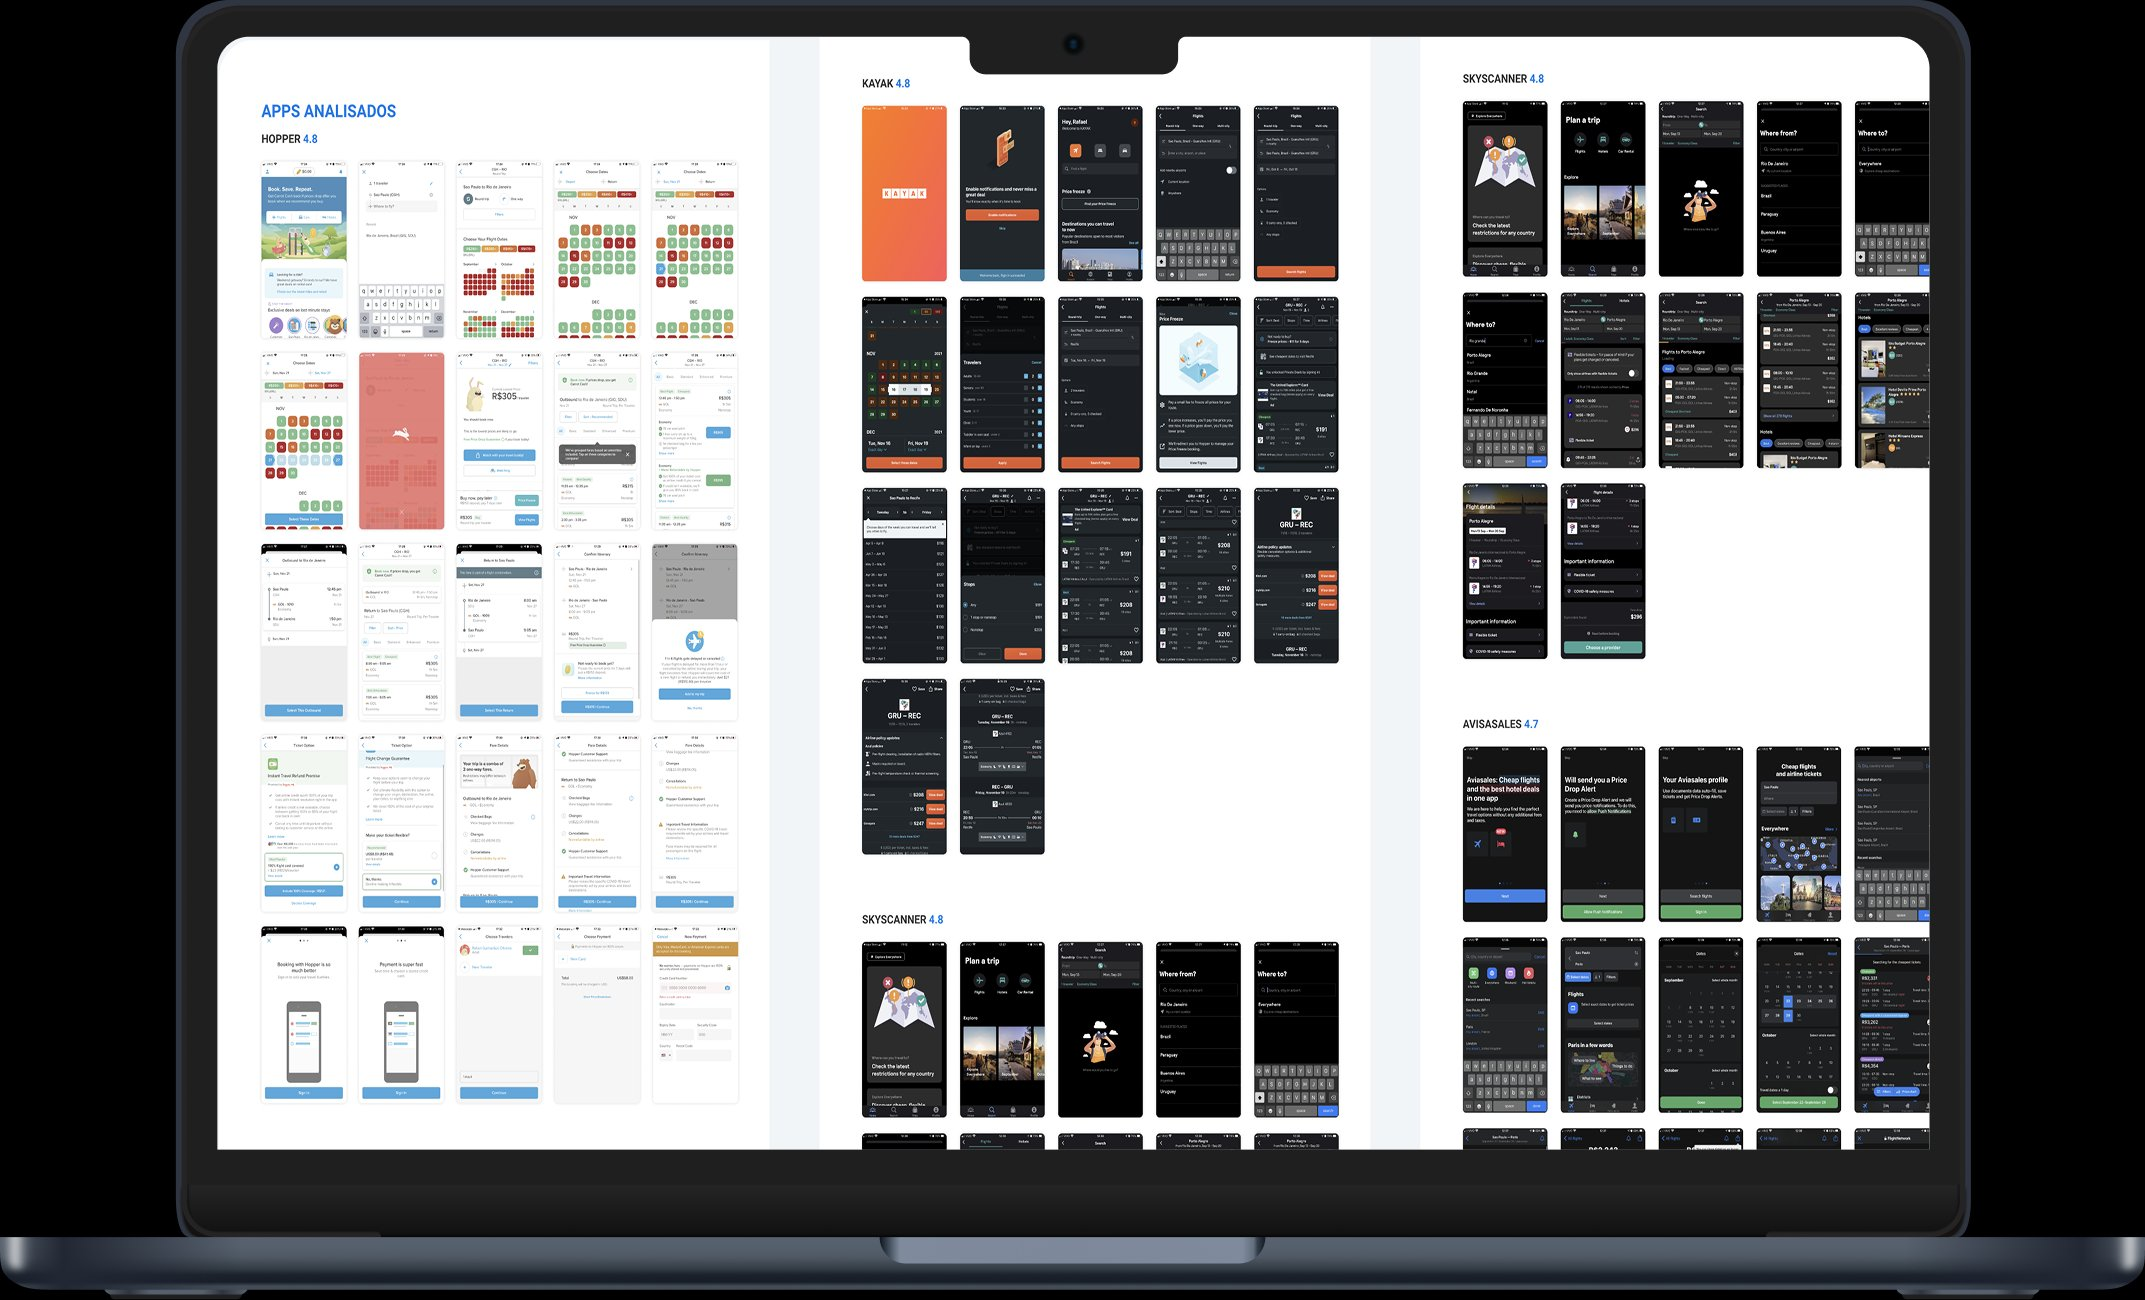
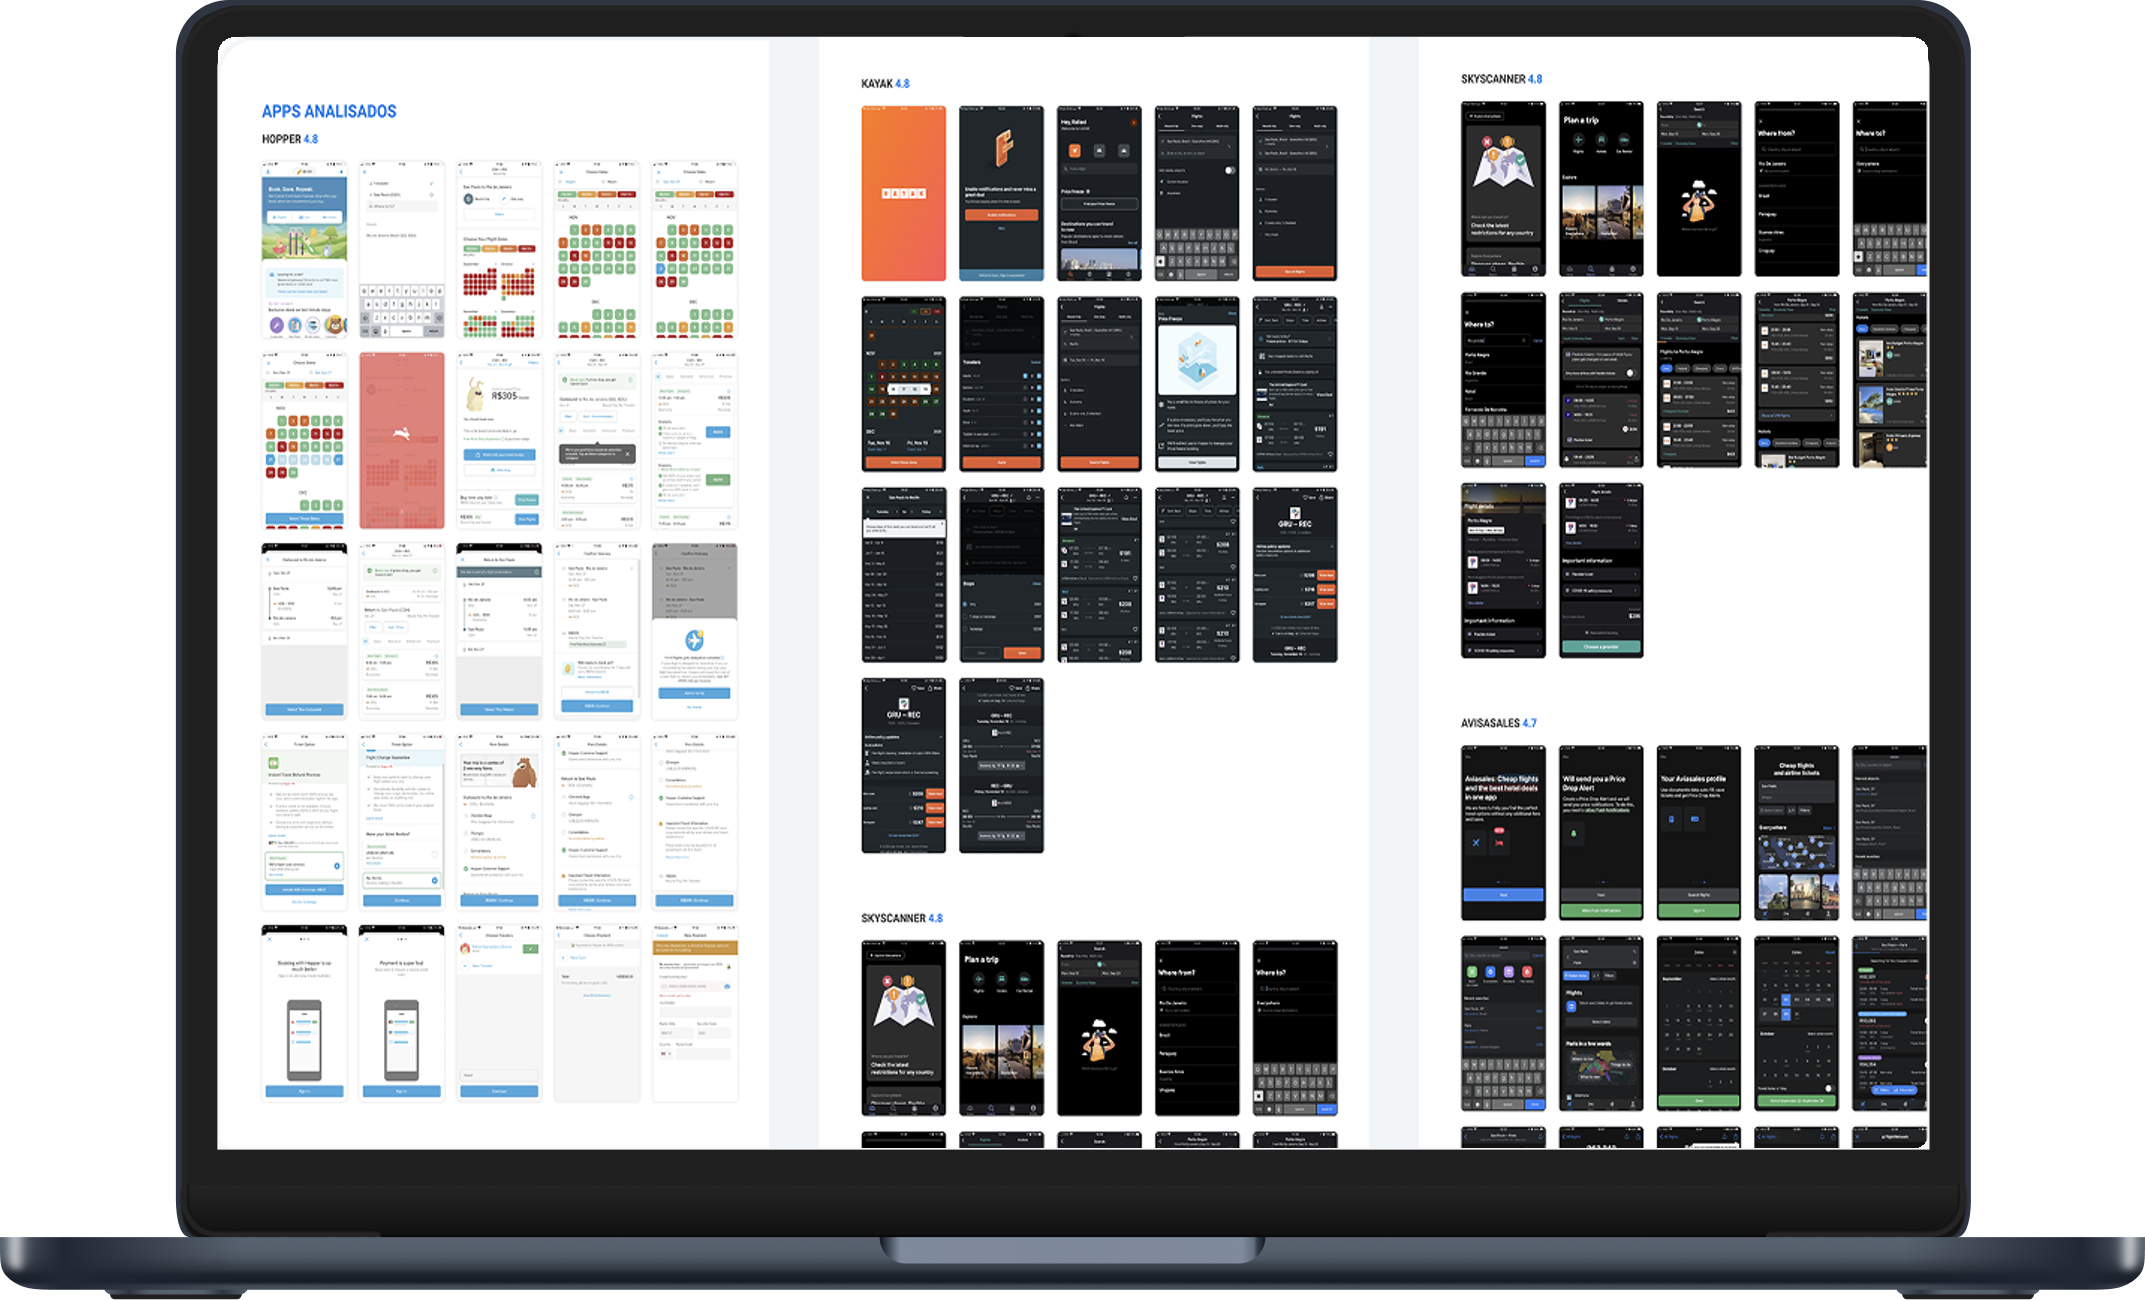
CVC process section: huge MacBook mockups with scroll-zoom (Apple-style)
Replace the flat process artifacts with oversized MacBook mockups that bleed
off the viewport edges and zoom as you scroll through a pinned stage
(MacBookReveal). The benchmark board and navigation flow become the two
hero "computers"; the supporting craft carousel now uses framed MacBooks too,
unifying the desktop = "the thinking" device language.

diff --git a/app/components/MacBookReveal.tsx b/app/components/MacBookReveal.tsx
@@ -1,0 +1,149 @@
+"use client";
+import Image from "next/image";
+import { useEffect, useRef, useState } from "react";
+
+/* A huge "process artifact" shown inside a real MacBook mockup (PNG already
+   includes the device frame). The laptop is oversized so it bleeds past the
+   viewport edges, and it ZOOMS as you scroll through a pinned stage — the
+   Apple product-shot move. Caption (eyebrow/title/body/metric) sits above,
+   revealing as you enter. On mobile it degrades to a clean stacked image. */
+
+export default function MacBookReveal({
+  src,
+  eyebrow,
+  title,
+  body,
+  metric,
+  isMobile = false,
+  heightVh = 165,
+}: {
+  src: string;
+  eyebrow?: string;
+  title: string;
+  body: string;
+  metric?: { n: string; l: string };
+  isMobile?: boolean;
+  heightVh?: number;
+}) {
+  const wrapRef = useRef<HTMLDivElement>(null);
+  const capRef = useRef<HTMLDivElement>(null);
+  const [p, setP] = useState(0); // 0..1 progress through the pinned stage
+  const [capShown, setCapShown] = useState(false);
+
+  useEffect(() => {
+    const el = capRef.current;
+    if (!el) return;
+    const obs = new IntersectionObserver(
+      ([e]) => e.isIntersecting && (setCapShown(true), obs.unobserve(el)),
+      { threshold: 0.4 }
+    );
+    obs.observe(el);
+    return () => obs.disconnect();
+  }, []);
+
+  useEffect(() => {
+    if (isMobile) return;
+    const onScroll = () => {
+      const el = wrapRef.current;
+      if (!el) return;
+      const r = el.getBoundingClientRect();
+      const vh = window.innerHeight;
+      const total = el.offsetHeight - vh;
+      const scrolled = Math.min(Math.max(-r.top, 0), Math.max(total, 1));
+      setP(total > 0 ? scrolled / total : 0);
+    };
+    onScroll();
+    window.addEventListener("scroll", onScroll, { passive: true });
+    window.addEventListener("resize", onScroll);
+    return () => {
+      window.removeEventListener("scroll", onScroll);
+      window.removeEventListener("resize", onScroll);
+    };
+  }, [isMobile]);
+
+  const caption = (
+    <div
+      ref={capRef}
+      style={{
+        maxWidth: 760,
+        opacity: capShown ? 1 : 0,
+        transform: capShown ? "translateY(0)" : "translateY(18px)",
+        transition: "opacity .9s ease, transform .9s cubic-bezier(.16,1,.3,1)",
+      }}
+    >
+      {eyebrow && (
+        <p style={{ fontSize: ".65rem", fontWeight: 700, letterSpacing: ".18em", textTransform: "uppercase", color: "#0071e3", marginBottom: "1rem" }}>
+          {eyebrow}
+        </p>
+      )}
+      <h3 style={{ fontSize: "clamp(1.5rem,2.6vw,2.3rem)", fontWeight: 700, color: "#fff", letterSpacing: "-.02em", lineHeight: 1.08, marginBottom: "1.1rem" }}>
+        {title}
+      </h3>
+      <p style={{ fontSize: "1rem", color: "rgba(255,255,255,.55)", lineHeight: 1.75 }}>{body}</p>
+      {metric && (
+        <div style={{ marginTop: "1.75rem", display: "inline-flex", alignItems: "baseline", gap: ".6rem", padding: ".7rem 1.1rem", borderRadius: 12, border: "1px solid rgba(0,113,227,.3)", background: "rgba(0,113,227,.06)" }}>
+          <span style={{ fontSize: "1.6rem", fontWeight: 700, color: "#0071e3", letterSpacing: "-.03em", lineHeight: 1 }}>{metric.n}</span>
+          <span style={{ fontSize: ".75rem", color: "rgba(255,255,255,.5)", letterSpacing: ".04em" }}>{metric.l}</span>
+        </div>
+      )}
+    </div>
+  );
+
+  /* ── Mobile: caption + static laptop ── */
+  if (isMobile) {
+    return (
+      <div style={{ display: "flex", flexDirection: "column", gap: "2rem" }}>
+        {caption}
+        <div style={{ width: "112%", marginLeft: "-6%" }}>
+          <Image src={src} alt={title} width={2145} height={1300} unoptimized sizes="112vw" style={{ width: "100%", height: "auto", display: "block" }} />
+        </div>
+      </div>
+    );
+  }
+
+  /* ── Desktop: caption, then a pinned laptop that zooms on scroll ── */
+  const scale = 1.0 + p * 0.16; // zoom in 1.00 → 1.16
+  const ty = (0.5 - p) * 46; // gentle rise as it zooms
+
+  return (
+    <div>
+      <div style={{ marginBottom: "1rem" }}>{caption}</div>
+
+      {/* full-bleed pinned zoom stage */}
+      <div
+        ref={wrapRef}
+        style={{
+          position: "relative",
+          height: `${heightVh}vh`,
+          width: "100vw",
+          marginLeft: "calc(50% - 50vw)",
+        }}
+      >
+        <div
+          style={{
+            position: "sticky",
+            top: 0,
+            height: "100vh",
+            overflow: "hidden",
+            display: "flex",
+            alignItems: "center",
+            justifyContent: "center",
+          }}
+        >
+          <div
+            style={{
+              flexShrink: 0,
+              width: "min(118vw, 1700px)",
+              transform: `translateY(${ty}px) scale(${scale})`,
+              transition: "transform .12s linear",
+              willChange: "transform",
+              filter: "drop-shadow(0 50px 90px rgba(0,0,0,.6))",
+            }}
+          >
+            <Image src={src} alt={title} width={2145} height={1300} unoptimized sizes="118vw" style={{ width: "100%", height: "auto", display: "block" }} />
+          </div>
+        </div>
+      </div>
+    </div>
+  );
+}

diff --git a/app/work/cvc/page.tsx b/app/work/cvc/page.tsx
@@ -8,7 +8,7 @@ import RevealText from "../../components/RevealText";
 import LoopVideo from "../../components/LoopVideo";
 import DeviceSwitcher from "../../components/DeviceSwitcher";
 import FeatureCarousel from "../../components/FeatureCarousel";
-import ArtifactReveal from "../../components/ArtifactReveal";
+import MacBookReveal from "../../components/MacBookReveal";
 import PhoneSpotlight from "../../components/PhoneSpotlight";
 
 /* ── Counter ── */
@@ -364,30 +364,27 @@ export default function CVCCasePage() {
             />
           </ScrollReveal>
 
-          {/* Highlighted artifact 1 — the evidence */}
-          <div style={{ marginBottom: isMobile ? "5rem" : "8rem" }}>
-            <ArtifactReveal
+          {/* Highlighted artifact 1 — the evidence (huge MacBook, scroll-zoom) */}
+          <div style={{ marginBottom: isMobile ? "5rem" : "6rem" }}>
+            <MacBookReveal
               isMobile={isMobile}
-              src="/screens-desktop/process-benchmark.png"
+              src="/screens-desktop/mac-benchmark.png"
               eyebrow="01 · The evidence"
               title="It started with the whole market."
               body="Hopper, Skyscanner, Kayak, AvisaSales, Decolar — every leading flight app, mapped screen by screen. Three principles kept repeating: guided flow, one flight at a time, fully native. CVC was breaking all three."
               metric={{ n: "5 apps", l: "benchmarked end-to-end" }}
-              ratio="1142 / 742"
             />
           </div>
 
-          {/* Highlighted artifact 2 — the architecture */}
-          <div style={{ marginBottom: isMobile ? "5rem" : "8rem" }}>
-            <ArtifactReveal
+          {/* Highlighted artifact 2 — the architecture (huge MacBook, scroll-zoom) */}
+          <div style={{ marginBottom: isMobile ? "5rem" : "6rem" }}>
+            <MacBookReveal
               isMobile={isMobile}
-              reverse
-              src="/screens-desktop/process-user-flow.png"
+              src="/screens-desktop/mac-user-flow.png"
               eyebrow="02 · The architecture"
               title="Then I remapped the flow."
               body="The current webview sitemap, mapped against an ideal one — a linear, guided architecture with one decision per screen, outbound then return, and a confirmation before checkout instead of inside it."
               metric={{ n: "Current → ideal", l: "navigation flow remapped" }}
-              ratio="1142 / 742"
             />
           </div>
 
@@ -400,10 +397,10 @@ export default function CVCCasePage() {
           <ScrollReveal delay={120}>
             <FeatureCarousel
               slides={[
-                { src: "/screens-desktop/process-ux-audit.png", title: "UX audit", body: "Every friction point in the legacy webview flow, annotated screen by screen.", ratio: "1142 / 742", position: "center" },
-                { src: "/screens-desktop/process-wireframes.png", title: "Wireframes", body: "Lo-fi structure for the whole flow before committing to a single hi-fi pixel.", ratio: "1142 / 742", position: "center" },
-                { src: "/screens-desktop/process-wireframe-validation.png", title: "Wireframe cross-validation", body: "Impediments, suggestions and effort scored per screen with the team.", ratio: "1142 / 742", position: "center" },
-                { src: "/screens-desktop/process-usability-test.png", title: "Usability test — Maze A/B", body: "The outbound/return split, validated. Variant A won 97–100 vs 40.", ratio: "1142 / 742", position: "center" },
+                { src: "/screens-desktop/mac-screens.png", title: "Screen inventory", body: "Every hi-fi screen in the flow, laid out end-to-end before validation.", ratio: "2145 / 1300", position: "center" },
+                { src: "/screens-desktop/mac-wireframes.png", title: "Wireframes", body: "Lo-fi structure for the whole flow before committing to a single hi-fi pixel.", ratio: "2145 / 1300", position: "center" },
+                { src: "/screens-desktop/mac-validation.png", title: "Wireframe cross-validation", body: "Impediments, suggestions and effort scored per screen with the team.", ratio: "2145 / 1300", position: "center" },
+                { src: "/screens-desktop/mac-maze.png", title: "Usability test — Maze A/B", body: "The outbound/return split, validated. Variant A won 97–100 vs 40.", ratio: "2145 / 1300", position: "center" },
               ]}
             />
           </ScrollReveal>
